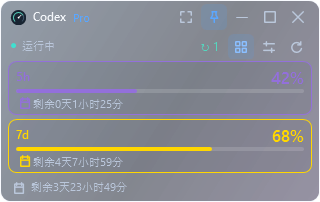
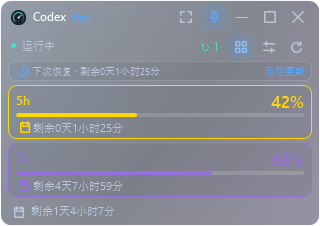
Codex 额度 增加恢复摘要和重置券到期提示

diff --git a/MainWindow.xaml b/MainWindow.xaml
@@ -42,7 +42,7 @@
                     <TextBlock Text="{Binding ConnectionText}" Foreground="{StaticResource SecondaryTextBrush}" VerticalAlignment="Center" FontSize="11" />
                 </StackPanel>
                 <StackPanel Grid.Column="1" Orientation="Horizontal">
-                    <TextBlock Text="{Binding ResetCreditsText, StringFormat=↻ {0}}" Visibility="{Binding ResetCreditsVisibility}" ToolTip="{Binding ResetCreditsDisplayText}" Foreground="{StaticResource SuccessBrush}" VerticalAlignment="Center" Margin="0,0,8,0" />
+                    <TextBlock Text="{Binding ResetCreditsText, StringFormat=↻ {0}}" AutomationProperties.AutomationId="ResetCredits" AutomationProperties.Name="{Binding ResetCreditsText}" AutomationProperties.HelpText="{Binding ResetCreditsDisplayText}" Visibility="{Binding ResetCreditsVisibility}" ToolTip="{Binding ResetCreditsDisplayText}" Foreground="{StaticResource SuccessBrush}" VerticalAlignment="Center" Margin="0,0,8,0" />
                     <RadioButton x:Name="DashboardRailButton" IsChecked="True" GroupName="Page" Style="{StaticResource GlassTab}" AutomationProperties.Name="{Binding Text.DashboardTab}" ToolTip="{Binding Text.DashboardTab}" Checked="DashboardRailChecked"><Path Style="{StaticResource LineIcon}" Data="M4,4 H10 V10 H4 Z M14,4 H20 V10 H14 Z M4,14 H10 V20 H4 Z M14,14 H20 V20 H14 Z" /></RadioButton>
                     <RadioButton x:Name="SettingsRailButton" GroupName="Page" Style="{StaticResource GlassTab}" AutomationProperties.Name="{Binding Text.SettingsTab}" ToolTip="{Binding Text.SettingsTab}" Checked="SettingsRailChecked"><Path Style="{StaticResource LineIcon}" Data="M4,7 H20 M4,17 H20 M8,4 V10 M16,14 V20" /></RadioButton>
                     <Button x:Name="RailRefreshButton" Style="{StaticResource GlassButton}" ToolTip="{Binding Text.RefreshNow}" AutomationProperties.Name="{Binding Text.RefreshNow}" Click="RefreshClicked" IsEnabled="{Binding CanRefresh}"><Path Style="{StaticResource LineIcon}" Data="M19,8 A8,8 0 1 0 20,14 M19,3 V8 H14" /></Button>
@@ -51,6 +51,14 @@
             <ScrollViewer Grid.Row="2" HorizontalScrollBarVisibility="Disabled" VerticalScrollBarVisibility="Auto" Background="Transparent">
                 <Grid>
                     <StackPanel x:Name="DashboardContent">
+                        <Border Padding="6,3" Margin="0,0,0,4" CornerRadius="7" BorderBrush="{StaticResource LineBrush}" BorderThickness="1" Background="#10192737" Visibility="{Binding ActivitySummaryVisibility}">
+                            <Grid>
+                                <Grid.ColumnDefinitions><ColumnDefinition Width="17" /><ColumnDefinition Width="*" /><ColumnDefinition Width="Auto" /></Grid.ColumnDefinitions>
+                                <Path Style="{StaticResource LineIcon}" Stroke="{StaticResource AccentBrush}" Data="M12,4 A8,8 0 1 1 4,12 M12,7 V12 L15,14" />
+                                <TextBlock Grid.Column="1" Text="{Binding EarliestRecoveryText}" AutomationProperties.AutomationId="EarliestRecovery" AutomationProperties.Name="{Binding EarliestRecoveryText}" AutomationProperties.HelpText="{Binding EarliestRecoveryTooltip}" ToolTip="{Binding EarliestRecoveryTooltip}" Foreground="{StaticResource SecondaryTextBrush}" VerticalAlignment="Center" FontSize="10" />
+                                <TextBlock Grid.Column="2" Text="{Binding LastUpdatedText}" AutomationProperties.AutomationId="LastUpdated" AutomationProperties.Name="{Binding LastUpdatedText}" AutomationProperties.HelpText="{Binding LastUpdatedTooltip}" ToolTip="{Binding LastUpdatedTooltip}" Foreground="{StaticResource AccentBrush}" VerticalAlignment="Center" FontSize="10" Margin="8,0,0,0" />
+                            </Grid>
+                        </Border>
                         <Border Padding="7,4" Margin="0,0,0,4" CornerRadius="8" BorderBrush="{Binding MonthlyToneBrush}" BorderThickness="1" Background="#151A3039" Visibility="{Binding MonthlyVisibility}">
                             <StackPanel>
                                 <Grid Height="21"><TextBlock Text="{Binding Text.MonthlyQuota}" Foreground="{Binding MonthlyToneBrush}" FontWeight="SemiBold" VerticalAlignment="Center" /><TextBlock Text="{Binding MonthlyPercentText}" Foreground="{Binding MonthlyToneBrush}" HorizontalAlignment="Right" FontSize="17" FontWeight="SemiBold" /></Grid>

diff --git a/ViewModels/QuotaViewModel.cs b/ViewModels/QuotaViewModel.cs
@@ -26,6 +26,7 @@ public sealed class QuotaViewModel : INotifyPropertyChanged, IDisposable
     private bool refreshing;
     private bool disposed;
     private int consecutiveFailures;
+    private DateTimeOffset? lastSuccessfulRefreshAt;
 
     /// <summary>
     /// 初始化真实 Codex 提供器；只有显式传入演示提供器时才使用静态演示数据。
@@ -75,7 +76,11 @@ public sealed class QuotaViewModel : INotifyPropertyChanged, IDisposable
         ? FormatExpiryCountdown(expiry, DateTimeOffset.Now, language)
         : MembershipText;
     public string ResetCreditsText => snapshot?.ResetCredits is { } count ? count.ToString() : "--";
-    public string ResetCreditsDisplayText => $"{Text.ResetCredits}: {ResetCreditsText}";
+    public string ResetCreditsDisplayText => snapshot?.ResetCredits is { } count
+        ? snapshot.EarliestResetCreditExpiresAt is { } expiry
+            ? $"{Text.ResetCredits}: {count}\n{Text.ResetCreditEarliestExpiry}: {FormatExpiryCountdown(expiry, DateTimeOffset.Now, language)}"
+            : $"{Text.ResetCredits}: {count}"
+        : Text.ResetCredits;
     public Visibility ResetCreditsVisibility => snapshot?.ResetCredits is null ? Visibility.Collapsed : Visibility.Visible;
     public Visibility RemainingCreditsVisibility => snapshot?.RemainingCredits is not null || snapshot?.CreditsUnlimited == true
         ? Visibility.Visible
@@ -95,6 +100,19 @@ public sealed class QuotaViewModel : INotifyPropertyChanged, IDisposable
         : Visibility.Visible;
     public bool HasDisplayableData => snapshot is not null && (snapshot.FiveHour is not null || snapshot.SevenDay is not null
         || snapshot.Monthly is not null || snapshot.RemainingCredits is not null || snapshot.CreditsUnlimited);
+    public Visibility ActivitySummaryVisibility => HasDisplayableData ? Visibility.Visible : Visibility.Collapsed;
+    public string EarliestRecoveryText => GetEarliestResetAt() is { } resetAt
+        ? $"{Text.NextRecovery} · {FormatRemainingCountdown(resetAt, DateTimeOffset.Now, language)}"
+        : Text.RecoveryUnavailable;
+    public string EarliestRecoveryTooltip => GetEarliestResetAt() is { } resetAt
+        ? $"{Text.NextRecovery}: {FormatExpiryCountdown(resetAt, DateTimeOffset.Now, language)}"
+        : Text.RecoveryUnavailable;
+    public string LastUpdatedText => lastSuccessfulRefreshAt is not { } updatedAt
+        ? Text.FetchingLatest
+        : FormatLastUpdated(updatedAt, DateTimeOffset.Now);
+    public string LastUpdatedTooltip => lastSuccessfulRefreshAt is { } updatedAt
+        ? $"{Text.LastSuccessfulUpdate}: {updatedAt.ToLocalTime():yyyy/MM/dd HH:mm:ss}"
+        : Text.FetchingLatest;
     public string ErrorText => errorDetail;
     public bool CanRefresh => !refreshing && !disposed;
     public string ConnectionText => HasStableError
@@ -147,6 +165,10 @@ public sealed class QuotaViewModel : INotifyPropertyChanged, IDisposable
             OnPropertyChanged(nameof(SevenDayResetTooltip));
             OnPropertyChanged(nameof(MonthlyResetTooltip));
             OnPropertyChanged(nameof(ResetCreditsDisplayText));
+            OnPropertyChanged(nameof(EarliestRecoveryText));
+            OnPropertyChanged(nameof(EarliestRecoveryTooltip));
+            OnPropertyChanged(nameof(LastUpdatedText));
+            OnPropertyChanged(nameof(LastUpdatedTooltip));
             OnPropertyChanged(nameof(RemainingCreditsText));
             OnPropertyChanged(nameof(RemainingCreditsTooltip));
             OnPropertyChanged(nameof(PlanName));
@@ -211,6 +233,7 @@ public sealed class QuotaViewModel : INotifyPropertyChanged, IDisposable
                 errorMessage = null;
                 errorDetail = string.Empty;
                 consecutiveFailures = 0;
+                lastSuccessfulRefreshAt = DateTimeOffset.Now;
             }
             catch (OperationCanceledException) when (disposed)
             {
@@ -264,6 +287,10 @@ public sealed class QuotaViewModel : INotifyPropertyChanged, IDisposable
         OnPropertyChanged(nameof(MonthlyResetTooltip));
         OnPropertyChanged(nameof(MembershipText));
         OnPropertyChanged(nameof(MembershipTooltipText));
+        OnPropertyChanged(nameof(EarliestRecoveryText));
+        OnPropertyChanged(nameof(EarliestRecoveryTooltip));
+        OnPropertyChanged(nameof(LastUpdatedText));
+        OnPropertyChanged(nameof(LastUpdatedTooltip));
         _ = RefreshAsync();
     }
 
@@ -336,6 +363,38 @@ public sealed class QuotaViewModel : INotifyPropertyChanged, IDisposable
 
     /// <summary>判断当前有效快照是否为 Free；仅在没有会员日期时隐藏无意义的订阅到期行。</summary>
     private bool IsFreePlan => string.Equals(snapshot?.PlanName, "free", StringComparison.OrdinalIgnoreCase);
+
+    /// <summary>从可用额度窗口中找出最早重置时刻，帮助用户判断下一次最早恢复使用的时间。</summary>
+    private DateTimeOffset? GetEarliestResetAt()
+    {
+        DateTimeOffset? earliest = null;
+        foreach (var resetAt in new[] { snapshot?.FiveHour?.ResetAt, snapshot?.SevenDay?.ResetAt, snapshot?.Monthly?.ResetAt })
+        {
+            if (resetAt is { } value && (earliest is null || value < earliest))
+            {
+                earliest = value;
+            }
+        }
+
+        return earliest;
+    }
+
+    /// <summary>将上次成功更新时间压缩为短文本，完整时刻通过悬浮提示保留。</summary>
+    private string FormatLastUpdated(DateTimeOffset updatedAt, DateTimeOffset now)
+    {
+        var elapsed = now.ToLocalTime() - updatedAt.ToLocalTime();
+        if (elapsed < TimeSpan.FromMinutes(1))
+        {
+            return Text.UpdatedNow;
+        }
+
+        if (elapsed < TimeSpan.FromHours(1))
+        {
+            return string.Format(CultureInfo.CurrentCulture, Text.UpdatedMinutesAgo, Math.Floor(elapsed.TotalMinutes));
+        }
+
+        return string.Format(CultureInfo.CurrentCulture, Text.UpdatedHoursAgo, Math.Floor(elapsed.TotalHours));
+    }
 
     /// <summary>将提供器预定义的错误标题映射为当前界面语言，避免英语界面夹杂中文错误名称。</summary>
     private string LocalizeError(string message)

diff --git a/tests/QuotaChecks/Program.cs b/tests/QuotaChecks/Program.cs
@@ -177,6 +177,10 @@ internal static class Program
             Check(viewModel.RemainingCreditsVisibility == Visibility.Visible && viewModel.RemainingCreditsText == "61,986"
                 && viewModel.ResetCreditsText == "2", "剩余额度与重置券分开显示");
             Check(viewModel.MembershipVisibility == Visibility.Collapsed && viewModel.HasDisplayableData, "Free 套餐隐藏会员未知行并保留有效数据");
+            Check(viewModel.EarliestRecoveryText.StartsWith("下次恢复", StringComparison.Ordinal)
+                && viewModel.LastUpdatedText == "刚刚更新"
+                && viewModel.ResetCreditsDisplayText.Contains("最早重置券到期", StringComparison.Ordinal),
+                "Free 显示最早恢复、成功更新时间和重置券到期提示");
             Check(QuotaViewModel.GetQuotaTone(0) == "Red" && QuotaViewModel.GetQuotaTone(100) == "Green", "额度颜色按已使用程度映射");
         }
         finally
@@ -267,6 +271,7 @@ internal static class Program
             Environment.SetEnvironmentVariable("QUOTA_CHECK_MODE", "success");
             var snapshot = await provider.GetSnapshotAsync(CancellationToken.None);
             Check(snapshot.FiveHour is null && snapshot.SevenDay?.Percent == 45 && snapshot.ResetCredits == 2
+                && snapshot.EarliestResetCreditExpiresAt == DateTimeOffset.FromUnixTimeSeconds(1893457000).ToLocalTime()
                 && snapshot.MembershipExpiresAt == DateTimeOffset.FromUnixTimeSeconds(1893456000).ToLocalTime(),
                 "严格握手、自动会员到期、仅周额度和重置次数");
             Environment.SetEnvironmentVariable("QUOTA_CHECK_MODE", "free");
@@ -274,7 +279,8 @@ internal static class Program
             Check(freeSnapshot.PlanName == "free" && freeSnapshot.Monthly?.Percent == 0
                 && freeSnapshot.RemainingCredits == 61_986m && !freeSnapshot.CreditsUnlimited
                 && freeSnapshot.FiveHour is null && freeSnapshot.SevenDay is null && freeSnapshot.MembershipExpiresAt is null
-                && freeSnapshot.ResetCredits == 2,
+                && freeSnapshot.ResetCredits == 2
+                && freeSnapshot.EarliestResetCreditExpiresAt == DateTimeOffset.FromUnixTimeSeconds(1893457000).ToLocalTime(),
                 "Free 月度额度、剩余额度与重置券独立解析");
             Environment.SetEnvironmentVariable("QUOTA_CHECK_MODE", "free-zero");
             var freeZeroSnapshot = await provider.GetSnapshotAsync(CancellationToken.None);
@@ -409,12 +415,12 @@ internal static class Program
                 await Console.Out.WriteLineAsync(mode == "unauthorized"
                     ? """{"id":3,"error":{"message":"401 unauthorized private-marker"}}"""
                     : mode == "free"
-                    ? """{"id":3,"result":{"rateLimits":{"primary":{"usedPercent":100,"windowDurationMins":43200,"resetsAt":1893456000},"secondary":null,"credits":{"hasCredits":true,"unlimited":false,"balance":"61986"}},"rateLimitResetCredits":{"availableCount":2}}}"""
+                    ? """{"id":3,"result":{"rateLimits":{"primary":{"usedPercent":100,"windowDurationMins":43200,"resetsAt":1893456000},"secondary":null,"credits":{"hasCredits":true,"unlimited":false,"balance":"61986"}},"rateLimitResetCredits":{"availableCount":2,"credits":[{"status":"available","expiresAt":1893458000},{"status":"available","expiresAt":1893457000}]}}}"""
                     : mode == "free-zero"
                     ? """{"id":3,"result":{"rateLimits":{"primary":{"usedPercent":100,"windowDurationMins":43200,"resetsAt":1893456000},"secondary":null,"credits":{"hasCredits":true,"unlimited":false,"balance":"0"}}}}"""
                     : mode == "free-unlimited"
                     ? """{"id":3,"result":{"rateLimits":{"primary":{"usedPercent":0,"windowDurationMins":43200,"resetsAt":1893456000},"secondary":null,"credits":{"hasCredits":true,"unlimited":true}}}}"""
-                    : """{"id":3,"result":{"rateLimits":{"primary":{"usedPercent":55,"windowDurationMins":10080,"resetsAt":1893456000},"secondary":null},"rateLimitResetCredits":{"availableCount":2}}}""");
+                    : """{"id":3,"result":{"rateLimits":{"primary":{"usedPercent":55,"windowDurationMins":10080,"resetsAt":1893456000},"secondary":null},"rateLimitResetCredits":{"availableCount":2,"credits":[{"status":"available","expiresAt":1893458000},{"status":"available","expiresAt":1893457000}]}}}""");
             }
             await Console.Out.FlushAsync();
         }
@@ -453,7 +459,8 @@ internal static class Program
             return Task.FromResult(new QuotaSnapshot("free", "free", null, null, null, 2)
             {
                 Monthly          = new QuotaWindow("month", 0, DateTimeOffset.Now.AddDays(29)),
-                RemainingCredits = 61_986m
+                RemainingCredits = 61_986m,
+                EarliestResetCreditExpiresAt = DateTimeOffset.Now.AddDays(19)
             });
         }
     }

diff --git a/Services/QuotaProvider.cs b/Services/QuotaProvider.cs
@@ -35,11 +35,16 @@ public sealed class DemoQuotaProvider : IQuotaProvider
             {
                 AccountKey       = "demo-free",
                 Monthly          = new QuotaWindow("month", 0, now.AddDays(29).AddHours(3)),
-                RemainingCredits = 61_986m
+                RemainingCredits = 61_986m,
+                EarliestResetCreditExpiresAt = now.AddDays(19)
             });
         }
 
-        return Task.FromResult(new QuotaSnapshot("demo", "Pro", new QuotaWindow("5h", 42, now.AddHours(1).AddMinutes(26)), new QuotaWindow("7d", 68, now.AddDays(4).AddHours(8)), new DateTimeOffset(now.Year, 10, 12, 23, 59, 0, now.Offset), 1) { AccountKey = "demo" });
+        return Task.FromResult(new QuotaSnapshot("demo", "Pro", new QuotaWindow("5h", 42, now.AddHours(1).AddMinutes(26)), new QuotaWindow("7d", 68, now.AddDays(4).AddHours(8)), new DateTimeOffset(now.Year, 10, 12, 23, 59, 0, now.Offset), 1)
+        {
+            AccountKey                  = "demo",
+            EarliestResetCreditExpiresAt = now.AddDays(18)
+        });
     }
 }
 
@@ -176,6 +181,7 @@ public sealed class CodexQuotaProvider : IQuotaProvider
         AddWindows(limitsResponse, windows);
         var (remainingCredits, creditsUnlimited) = FindCredits(limitsResponse);
         var resetCredits = limitsResponse.TryGetProperty("rateLimitResetCredits", out var credits) && credits.ValueKind == JsonValueKind.Object && credits.TryGetProperty("availableCount", out var count) ? count.GetInt32() : (int?)null;
+        var earliestResetCreditExpiry = FindEarliestResetCreditExpiry(limitsResponse);
         // Free 没有订阅有效期；避免本机遗留认证声明把 Free 账户误显示为付费会员。
         // 其他 ChatGPT 套餐才在 app-server 缺失字段时从同一登录令牌补齐。
         var membershipExpiresAt = string.Equals(plan, "free", StringComparison.OrdinalIgnoreCase)
@@ -186,7 +192,8 @@ public sealed class CodexQuotaProvider : IQuotaProvider
             AccountKey       = accountId ?? accountLabel,
             Monthly          = windows.Find(window => window.Label == "month"),
             RemainingCredits = remainingCredits,
-            CreditsUnlimited = creditsUnlimited
+            CreditsUnlimited = creditsUnlimited,
+            EarliestResetCreditExpiresAt = earliestResetCreditExpiry
         };
     }
 
@@ -262,6 +269,41 @@ public sealed class CodexQuotaProvider : IQuotaProvider
 
         return value.ValueKind == JsonValueKind.String
             && decimal.TryParse(value.GetString(), NumberStyles.Number, CultureInfo.InvariantCulture, out parsed);
+    }
+
+    /// <summary>从可用重置券中选择最早到期项，用于提醒但不暴露券标识或执行任何重置操作。</summary>
+    private static DateTimeOffset? FindEarliestResetCreditExpiry(JsonElement response)
+    {
+        if (!response.TryGetProperty("rateLimitResetCredits", out var resetCredits)
+            || resetCredits.ValueKind != JsonValueKind.Object
+            || !resetCredits.TryGetProperty("credits", out var credits)
+            || credits.ValueKind != JsonValueKind.Array)
+        {
+            return null;
+        }
+
+        DateTimeOffset? earliest = null;
+        foreach (var credit in credits.EnumerateArray())
+        {
+            if (credit.ValueKind != JsonValueKind.Object
+                || credit.TryGetProperty("status", out var status) && !string.Equals(status.GetString(), "available", StringComparison.OrdinalIgnoreCase)
+                || !credit.TryGetProperty("expiresAt", out var expiresAt))
+            {
+                continue;
+            }
+
+            var expiry = expiresAt.ValueKind == JsonValueKind.Number && expiresAt.TryGetInt64(out var unixTimestamp)
+                ? ParseUnixTimestamp(unixTimestamp)
+                : expiresAt.ValueKind == JsonValueKind.String && DateTimeOffset.TryParse(expiresAt.GetString(), out var parsed)
+                    ? parsed.ToLocalTime()
+                    : null;
+            if (expiry is { } value && (earliest is null || value < earliest))
+            {
+                earliest = value;
+            }
+        }
+
+        return earliest;
     }
 
     /// <summary>

diff --git a/Models/LocalizedText.cs b/Models/LocalizedText.cs
@@ -34,6 +34,13 @@ public sealed record LocalizedText(
     string RemainingCredits,
     string UnlimitedCredits,
     string FreePlan,
+    string NextRecovery,
+    string RecoveryUnavailable,
+    string UpdatedNow,
+    string UpdatedMinutesAgo,
+    string UpdatedHoursAgo,
+    string LastSuccessfulUpdate,
+    string ResetCreditEarliestExpiry,
     string SnapToCorner,
     string PinWindow,
     string MinimizeWindow,
@@ -79,6 +86,13 @@ public static class LocalizedTextProvider
                 "Remaining credits",
                 "Unlimited",
                 "Free",
+                "Next recovery",
+                "No reset time",
+                "Updated just now",
+                "Updated {0}m ago",
+                "Updated {0}h ago",
+                "Last successful update",
+                "Earliest reset credit expiry",
                 "Snap to nearest corner",
                 "Always on top",
                 "Minimize",
@@ -116,6 +130,13 @@ public static class LocalizedTextProvider
                 "剩余额度",
                 "不限",
                 "免费版",
+                "下次恢复",
+                "暂无恢复时间",
+                "刚刚更新",
+                "{0}分钟前更新",
+                "{0}小时前更新",
+                "上次成功更新",
+                "最早重置券到期",
                 "贴到最近角落",
                 "置顶",
                 "最小化",

diff --git a/Models/QuotaSnapshot.cs b/Models/QuotaSnapshot.cs
@@ -25,6 +25,9 @@ public sealed record QuotaSnapshot(
     /// <summary>明确的无限额度标记；为 true 时不显示虚构数值，改为展示“不限”。</summary>
     public bool CreditsUnlimited { get; init; }
 
+    /// <summary>可用重置券中最早的到期时间；只作提醒展示，组件不提供或调用重置操作。</summary>
+    public DateTimeOffset? EarliestResetCreditExpiresAt { get; init; }
+
     /// <summary>
     /// 标识当前账号的非敏感键；通常为 app-server 返回的 accountId，不应存放令牌或完整邮箱。
     /// </summary>

diff --git a/docs/ui/2026-10-08-glass-mini.md b/docs/ui/2026-10-08-glass-mini.md
@@ -28,8 +28,20 @@
 - 日期完成时间改为日历图标悬浮提示，正文只显示剩余天、小时、分钟；额度比例 17 DIP，窄窗口换行/纵向滚动。
 - 按已使用程度每 25% 使用绿、紫、黄、红色，应用于卡片边框、标签、百分比和进度条；月度剩余 0% 显示红色。
 - Free 账户按实际字段显示月度窗口和余额胶囊，月度 0% 显示红色；余额和重置券分别呈现，Free 未返回订阅日期时隐藏会员到期行。
+- 恢复与更新时间采用单条摘要：左侧显示所有窗口中最早的恢复倒计时，右侧显示“刚刚更新/分钟前更新”；完整时间保留在 ToolTip。
+- 重置券最早到期只放进 `↻` 的 ToolTip，避免为低频信息增加常驻卡片。
 - 导航自动适配高度；用户主动缩放后保留其尺寸，不强制跳回默认。
 - 加载中有文字状态且禁用重复刷新；异常状态保留最后成功额度及诊断提示；不存在的额度卡片隐藏。
+
+## 2026-10-11 状态信息方案
+
+| 方案 | 信息结构 | 取舍 |
+| --- | --- | --- |
+| A 单条摘要（已实现） | 恢复倒计时 + 上次成功更新，重置券到期放 ToolTip | 信息密度高，不扩大窗口；完整详情需要悬浮查看 |
+| B 独立状态卡 | 恢复、更新时间、重置券到期分别成卡 | 信息最直观，但 Free 页面会明显增高 |
+| C 设置页详情 | 主界面仅保留额度，所有时间放设置页 | 最小，但需要额外切换才能判断何时恢复 |
+
+选择 A：它将“现在什么时候恢复”留在主视图，同时不与额度卡片竞争注意力。
 
 ## 实现与证据
 

diff --git a/README.md b/README.md
@@ -15,6 +15,8 @@ Windows 桌面额度小组件，用紧凑的玻璃渐变界面显示当前 Codex
 - 显示 5 小时和 7 天额度窗口、剩余百分比以及剩余时间；完成时间收在日历图标的悬浮提示中。
 - 支持 ChatGPT Free：当 Codex 只返回 30 天/月度窗口时，显示月度剩余百分比和重置倒计时，不会误报“暂无额度数据”。
 - 支持明确返回的“剩余额度”余额；余额与重置券数量独立展示，余额会随实际使用变化，不能与截图或历史值强行比对。
+- 额度卡片上方显示最早恢复时间和上次成功更新时间；完整恢复时刻通过悬浮提示保留。
+- 重置券仍以 `↻` 显示数量；悬浮提示会给出最早一张可用重置券的到期时间，不提供或调用重置操作。
 - 会员/订阅区域只展示剩余天、小时、分钟，鼠标悬停后显示完整到期时间；可用重置次数显示在右侧徽标中。
 - 额度颜色按已使用程度每 25% 切换为绿、紫、黄、红，颜色同时应用于标签、百分比、进度条和卡片边框；剩余 0% 显示红色。
 - 只使用明确命名的会员到期字段；服务端未返回时，从本机 Codex 登录令牌的订阅声明补齐，不会把额度重置时间误当成会员到期时间。

diff --git a/docs/releases/v0.2.3-validation.md b/docs/releases/v0.2.3-validation.md
@@ -1,0 +1,14 @@
+# v0.2.3 发布前验证
+
+## 已实现
+
+- 解析可用重置券中最早的到期时间，不记录券 ID、标题或说明。
+- 成功刷新后记录本地成功时间，显示紧凑更新时间和完整悬浮提示。
+- 从 5 小时、7 天、月度窗口中计算最早恢复时刻，Free 与付费套餐共用。
+
+## 验证证据
+
+- Free 协议夹具断言月度、余额、重置券最早到期时间独立解析。
+- Free ViewModel 断言最早恢复、刚刚更新和重置券到期提示。
+- Pro/Free 实际 WPF 截图分别为 320×226 与 320×185；窄/宽缩放、标题栏、托盘、任务栏隐藏和角落吸附回归通过。
+- 本机真实 Free 只读验证通过；读取使用 app-server 账户/额度接口，不发起模型请求或重置。

diff --git a/docs/releases/v0.2.3.md b/docs/releases/v0.2.3.md
@@ -1,0 +1,10 @@
+# Codex Quota Widget v0.2.3
+
+## 恢复与刷新摘要
+
+- 新增“下次恢复”摘要，自动从 5 小时、7 天和月度窗口中选择最早重置时刻。
+- 新增“刚刚更新 / 分钟前更新”提示，显示最后一次成功读取时间；完整时刻可悬浮查看。
+- 重置券悬浮提示新增最早可用券到期时间；只展示提醒，不会执行重置。
+- Free、Plus/Pro 共用同一恢复摘要逻辑，余额、重置券和订阅信息保持独立。
+
+所有时间均来自只读额度快照，本版本不添加模型请求、购买、重置或套餐变更操作。
